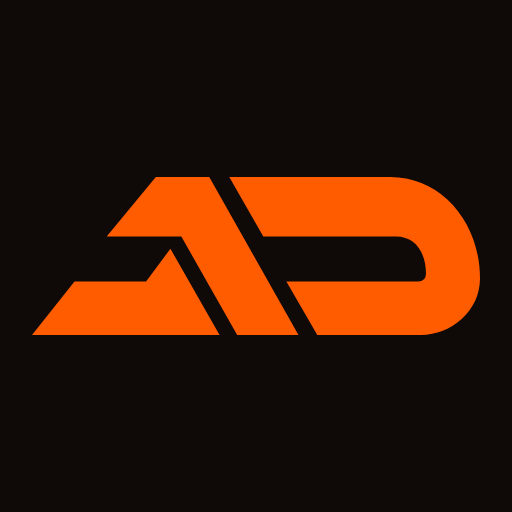
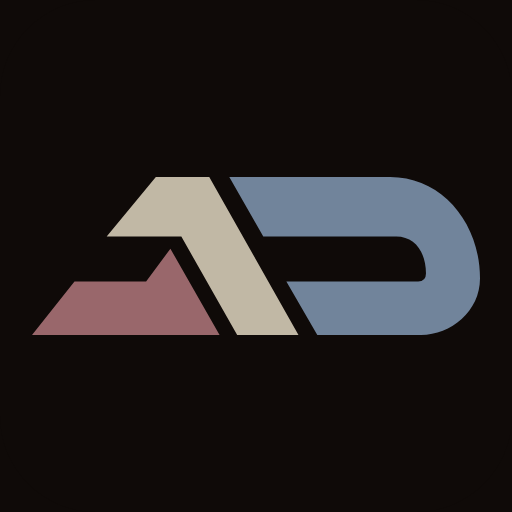
Refine workshop scroll sequence and add muted flag-color identity

Changed region(s): [[0.0625, 0.3438, 0.9375, 0.6562]]

diff --git a/site.css b/site.css
@@ -74,19 +74,19 @@ body.is-sand .pill{background:rgba(15,10,8,.08);color:var(--ink)}
 .stat p{margin-top:18px;font-size:clamp(17px,1.5vw,24px);font-weight:600;letter-spacing:-.02em;line-height:1.25;color:var(--white)}
 .stat p em{font-style:normal;color:var(--orange)}
 
-/* pinned plate: the workbook sketch, inverted to white ink on black, wiped in by scroll */
-.pin{height:200vh;position:relative}
-.pin-stage{overflow:clip;position:sticky;top:0;height:100vh;display:grid;place-items:center;padding:0 var(--gutter);max-width:var(--max);margin:0 auto}
-.plate{position:relative;margin:0;width:min(100%,1400px)}
-.plate-glow{position:absolute;inset:-12% -6%;background:radial-gradient(60% 60% at 50% 55%,rgba(255,92,0,.28),rgba(255,92,0,0) 70%);filter:blur(30px);opacity:0;pointer-events:none}
-.plate img{position:relative;width:100%;height:auto;border-radius:18px;filter:invert(1) grayscale(1) contrast(1.35) brightness(1.05);mix-blend-mode:screen}
-.plate{aspect-ratio:2153/730}
-.plate img{position:absolute;inset:0;width:100%;height:100%;object-fit:cover;object-position:50% 50%;border-radius:18px;-webkit-mask-image:linear-gradient(90deg,transparent 0%,rgba(0,0,0,.08) 22%,rgba(0,0,0,.55) 42%,#000 58%);mask-image:linear-gradient(90deg,transparent 0%,rgba(0,0,0,.08) 22%,rgba(0,0,0,.55) 42%,#000 58%)}
-.plate-arm{left:calc(990/2153*100%)!important;top:calc(100/730*100%)!important;width:calc(440/2153*100%)!important;height:calc(305/730*100%)!important;inset:auto;object-fit:fill;transform-origin:calc(75/440*100%) calc(235/305*100%);mask-image:none;-webkit-mask-image:none}
-
-.plate-text{position:absolute;left:clamp(24px,4vw,64px);top:50%;transform:translateY(-50%);z-index:2;display:block;max-width:min(40%,520px);font-size:clamp(18px,2vw,32px);line-height:1.12;letter-spacing:-.03em;font-weight:700;margin:0}
-.plate-text .w{color:rgba(251,248,239,.18);transition:color .18s linear}
+/* Copy leads; the assembly scene builds beneath it as the page scrolls. */
+.pin{height:250vh;position:relative}
+.pin-stage{overflow:clip;position:sticky;top:0;height:100vh;display:flex;flex-direction:column;align-items:flex-start;justify-content:center;gap:clamp(24px,3vh,40px);padding:88px var(--gutter) 32px;max-width:var(--max);margin:0 auto}
+.plate-text{position:relative;z-index:2;max-width:940px;font-size:clamp(24px,2.45vw,38px);line-height:1.15;letter-spacing:-.03em;font-weight:700;margin:0}
+.plate-text .w{color:#969188;transition:color .18s linear}
 .plate-text .w.on{color:var(--white)}
+.plate{position:relative;flex:none;margin:0 auto;width:min(100%,calc((100vh - 360px)*2.45));aspect-ratio:2.45;border-radius:18px;isolation:isolate;transform-origin:center;will-change:transform,clip-path}
+.plate-scene{position:absolute;left:-20%;top:0;width:120%;height:100%}
+.plate-glow{position:absolute;inset:0 -3%;background:radial-gradient(60% 70% at 52% 48%,rgba(255,92,0,.22),rgba(255,92,0,0) 75%);filter:blur(24px);opacity:.45;pointer-events:none}
+.plate img{position:absolute;display:block;filter:invert(1) grayscale(1) contrast(1.35) brightness(1.05);mix-blend-mode:screen}
+.plate-base{inset:0;width:100%;height:100%;object-fit:fill}
+.plate-arm{left:calc(990/2153*100%);top:calc(100/730*100%);width:calc(440/2153*100%);height:calc(305/730*100%);object-fit:fill;transform-origin:calc(75/440*100%) calc(235/305*100%);will-change:transform}
+.plate-scan{position:absolute;z-index:3;top:8%;bottom:10%;left:0;width:1px;background:linear-gradient(transparent,rgba(255,155,96,.6),transparent);box-shadow:0 0 24px 4px rgba(255,92,0,.1);opacity:0;pointer-events:none}
 
 /* char reveal */
 .solve{padding:clamp(96px,14vw,220px) var(--gutter);text-align:center}
@@ -156,7 +156,6 @@ body.is-sand .pill{background:rgba(15,10,8,.08);color:var(--ink)}
   .stat{min-height:0}.bar{height:0}.stat .bar{min-height:0}
   .stat{display:flex;flex-direction:row;align-items:flex-end;gap:16px;height:auto}.bar-wrap{height:auto;flex:none;width:var(--w,40%)}
   .stat .bar{width:100%;height:120px!important}
-  .pin{height:auto}.pin-stage{position:static;height:auto;padding:64px var(--gutter)}.plate{clip-path:none!important;transform:none!important;aspect-ratio:auto;min-height:0}.plate-base{position:relative;height:auto}.plate-text{position:static;transform:none;max-width:none;margin-top:20px;color:var(--white)}.plate-text .w{color:var(--white)}.plate-glow{opacity:1!important}
   .work-head{display:block}.work-head p{margin-top:12px}
   .links{flex-wrap:wrap;gap:14px 20px}
 }
@@ -179,7 +178,9 @@ body.is-sand .pill{background:rgba(15,10,8,.08);color:var(--ink)}
 :is(html:not(.enhanced),html.static-page) .num{opacity:1}
 :is(html:not(.enhanced),html.static-page) .pin{height:auto}
 :is(html:not(.enhanced),html.static-page) .pin-stage{position:static;height:auto;padding:64px var(--gutter)}
-:is(html:not(.enhanced),html.static-page) .plate{clip-path:none;transform:none}
+:is(html:not(.enhanced),html.static-page) .plate{width:100%;clip-path:none;transform:none;opacity:1;will-change:auto}
+:is(html:not(.enhanced),html.static-page) .plate-arm{transform:none;will-change:auto}
+:is(html:not(.enhanced),html.static-page) .plate-scan{display:none}
 :is(html:not(.enhanced),html.static-page) .plate-text .w{color:var(--white)}
 :is(html:not(.enhanced),html.static-page) .chars .c{opacity:1;transform:none}
 :is(html:not(.enhanced),html.static-page) .work{height:auto}
@@ -189,5 +190,10 @@ body.is-sand .pill{background:rgba(15,10,8,.08);color:var(--ink)}
 :is(html:not(.enhanced),html.static-page) .big.strike s::after{transform:scaleX(1);transition:none}
 :is(html:not(.enhanced),html.static-page) .big.strike .new{opacity:1;transform:none;transition:none}
 button:focus-visible,a:focus-visible{outline:2px solid var(--orange);outline-offset:5px}
-@media(max-width:900px){.plate .plate-base{position:relative;height:auto}}
+@media(max-width:900px),(max-height:699px){
+  .pin{height:auto}.pin-stage{position:static;height:auto;gap:28px;padding:104px var(--gutter) 64px}
+  .plate{width:100%;clip-path:none!important;transform:none!important;opacity:1!important;will-change:auto}
+  .plate-arm{transform:none!important;will-change:auto}.plate-scan{display:none}
+  .plate-text{max-width:940px;font-size:clamp(23px,3.2vw,32px)}.plate-text .w{color:var(--white)}
+}
 @media(prefers-reduced-motion:reduce){*,*::before,*::after{animation:none!important;transition:none!important}}

diff --git a/index.html b/index.html
@@ -45,14 +45,14 @@
   ]
 }
 </script>
-<link rel="icon" type="image/svg+xml" href="/favicon.svg?v=ad1">
-<link rel="apple-touch-icon" sizes="180x180" href="/apple-touch-icon.png?v=ad1">
-<link rel="icon" type="image/png" sizes="32x32" href="/favicon-32x32.png?v=ad1">
-<link rel="icon" type="image/png" sizes="16x16" href="/favicon-16x16.png?v=ad1">
-<link rel="manifest" href="/site.webmanifest?v=ad1">
+<link rel="icon" type="image/svg+xml" href="/favicon.svg?v=ad4">
+<link rel="apple-touch-icon" sizes="180x180" href="/apple-touch-icon.png?v=ad4">
+<link rel="icon" type="image/png" sizes="32x32" href="/favicon-32x32.png?v=ad4">
+<link rel="icon" type="image/png" sizes="16x16" href="/favicon-16x16.png?v=ad4">
+<link rel="manifest" href="/site.webmanifest?v=ad4">
 <link rel="preconnect" href="https://fonts.googleapis.com"><link rel="preconnect" href="https://fonts.gstatic.com" crossorigin>
 <link href="https://fonts.googleapis.com/css2?family=Inter+Tight:wght@500;600;700;800&family=Geist+Mono:wght@400;500&display=swap" rel="stylesheet">
-<link rel="stylesheet" href="/site.css?v=ad3">
+<link rel="stylesheet" href="/site.css?v=ad5">
 </head>
 <body>
 <a class="skip" href="#record">Skip to content</a>
@@ -71,7 +71,7 @@
 <div class="theme theme--dark" id="top">
 
   <header class="band">
-    <a class="brand" href="#top" aria-label="Andrew Deal home"><img src="/assets/ad-monogram-muted.svg" width="48" height="17" alt=""></a>
+    <a class="brand" href="#top" aria-label="Andrew Deal home"><img src="/assets/ad-monogram-americana.svg" width="48" height="17" alt=""></a>
     <span class="band-tagline">Product &amp; forward-deployed engineering · Physical AI</span>
   </header>
 
@@ -104,11 +104,14 @@
 
   <section class="pin" id="how" data-nav="2">
     <div class="pin-stage">
-      <figure class="plate">
-        <div class="plate-glow"></div>
-        <img class="plate-base" src="/assets/adaptive-factory-base.png" width="2153" height="730" alt="" loading="lazy">
-        <img class="plate-arm" src="/assets/arm.png" width="440" height="305" alt="" loading="lazy">
-        <p class="plate-text" data-words>I sit between the machine and the customer. I embed with the operator, ship the version that makes the problem inspectable, and turn what one deployment teaches into something the next one can reuse.</p>
+      <p class="plate-text" data-words>I sit between the machine and the customer. I embed with the operator, ship the version that makes the problem inspectable, and turn what one deployment teaches into something the next one can reuse.</p>
+      <figure class="plate" aria-label="A robotic assembly station alongside a human operator">
+        <div class="plate-glow" aria-hidden="true"></div>
+        <div class="plate-scene" aria-hidden="true">
+          <img class="plate-base" src="/assets/adaptive-factory-base.png" width="2153" height="730" alt="" loading="lazy">
+          <img class="plate-arm" src="/assets/arm.png" width="440" height="305" alt="" loading="lazy">
+        </div>
+        <div class="plate-scan" aria-hidden="true"></div>
       </figure>
     </div>
   </section>
@@ -180,11 +183,11 @@
     <a class="big-link rise" style="--d:.16s" href="mailto:deal.e.andrew@gmail.com">deal.e.andrew@gmail.com <span aria-hidden="true">↗</span></a>
     <nav class="links rise" style="--d:.24s" aria-label="Links"><a href="https://www.linkedin.com/in/adeal/">LinkedIn</a><a href="https://github.com/a-deal">GitHub</a><a href="/writing/hardware-is-eating-the-world/">Writing</a><a href="https://notesonatoms.substack.com/" aria-label="Notes on Atoms">Notes on Atoms</a><a href="https://x.com/a_e_deal">X</a></nav>
   </section>
-  <footer class="colophon"><span class="colophon-identity"><a href="#top" aria-label="Andrew Deal, back to top"><img src="/assets/ad-monogram-muted.svg" width="43" height="15" alt=""></a><span>© 2026 Andrew Deal · Mountain View, CA</span></span><span>Optimism with calluses.</span></footer>
+  <footer class="colophon"><span class="colophon-identity"><a href="#top" aria-label="Andrew Deal, back to top"><img src="/assets/ad-monogram-americana.svg" width="43" height="15" alt=""></a><span>© 2026 Andrew Deal · Mountain View, CA</span></span><span>Optimism with calluses.</span></footer>
 </div>
 </main>
 
 <script src="https://cdn.jsdelivr.net/npm/lenis@1.1.18/dist/lenis.min.js" defer></script>
-<script src="/site.js" defer></script>
+<script src="/site.js?v=ad5" defer></script>
 </body>
 </html>

diff --git a/site.js b/site.js
@@ -37,6 +37,7 @@
   var pin = document.querySelector('.pin');
   var plate = document.querySelector('.plate');
   var plateGlow = document.querySelector('.plate-glow');
+  var plateScan = document.querySelector('.plate-scan');
   var arm = document.querySelector('.plate-arm');
   var words = Array.prototype.slice.call(document.querySelectorAll('.plate-text .w'));
   var solve = document.querySelector('.solve');
@@ -74,18 +75,40 @@
       s.querySelector('.n').textContent = fmt(Math.round(target * e));
     });
 
-    /* pinned plate: wipe in from the left, scale up, glow */
-    if (pin && plate && !isMobile()) {
-      var pr = pin.getBoundingClientRect();
-      var total = pr.height - vh;
-      var p2 = clamp(-pr.top / total, 0, 1);
-      var wipe = ease(clamp(p2 / 0.6, 0, 1));
-      var grow = ease(clamp((p2 - 0.1) / 0.7, 0, 1));
-      plate.style.clipPath = 'inset(0 ' + ((1 - wipe) * 100) + '% 0 0 round 18px)';
-      plateGlow.style.opacity = String(grow);
-      if (arm) { var ang = -9 + 16 * ease(clamp((p2 - 0.15) / 0.75, 0, 1)); arm.style.transform = 'rotate(' + ang + 'deg)'; }
-      var lit = Math.floor(clamp((p2 - 0.3) / 0.6, 0, 1) * 1.05 * words.length);
-      words.forEach(function (w, i) { w.classList.toggle('on', i < lit); });
+    /* Assembly sequence: reveal the scene, sweep the work area, reach, then settle. */
+    if (pin && plate) {
+      if (!isMobile() && vh >= 700) {
+        var pr = pin.getBoundingClientRect();
+        var total = Math.max(1, pr.height - vh);
+        var p2 = clamp(-pr.top / total, 0, 1);
+        var reveal = ease(clamp((p2 + 0.08) / 0.48, 0, 1));
+        var approach = ease(clamp(p2 / 0.75, 0, 1));
+        plate.style.clipPath = 'inset(0 ' + ((1 - reveal) * 72) + '% 0 0 round 18px)';
+        plate.style.transform = 'translate3d(0,' + ((1 - reveal) * 36) + 'px,0) scale(' + (0.94 + 0.06 * approach) + ')';
+        plate.style.opacity = String(0.45 + 0.55 * reveal);
+        plateGlow.style.opacity = String(0.25 + 0.65 * approach);
+        if (arm) {
+          var reach = ease(clamp((p2 - 0.12) / 0.4, 0, 1));
+          var settle = ease(clamp((p2 - 0.57) / 0.32, 0, 1));
+          var ang = -14 + 22 * reach - 8 * settle;
+          arm.style.transform = 'rotate(' + ang + 'deg)';
+        }
+        if (plateScan) {
+          var scan = clamp((p2 - 0.12) / 0.65, 0, 1);
+          plateScan.style.left = (scan * 100) + '%';
+          plateScan.style.opacity = String(Math.sin(scan * Math.PI) * 0.7);
+        }
+        var lit = Math.floor((0.24 + 0.81 * clamp(p2 / 0.65, 0, 1)) * words.length);
+        words.forEach(function (w, i) { w.classList.toggle('on', i < lit); });
+      } else {
+        plate.style.clipPath = 'none';
+        plate.style.transform = 'none';
+        plate.style.opacity = '1';
+        plateGlow.style.opacity = '0.45';
+        if (arm) arm.style.transform = 'none';
+        if (plateScan) plateScan.style.opacity = '0';
+        words.forEach(function (w) { w.classList.add('on'); });
+      }
     }
 
     /* char reveal */
